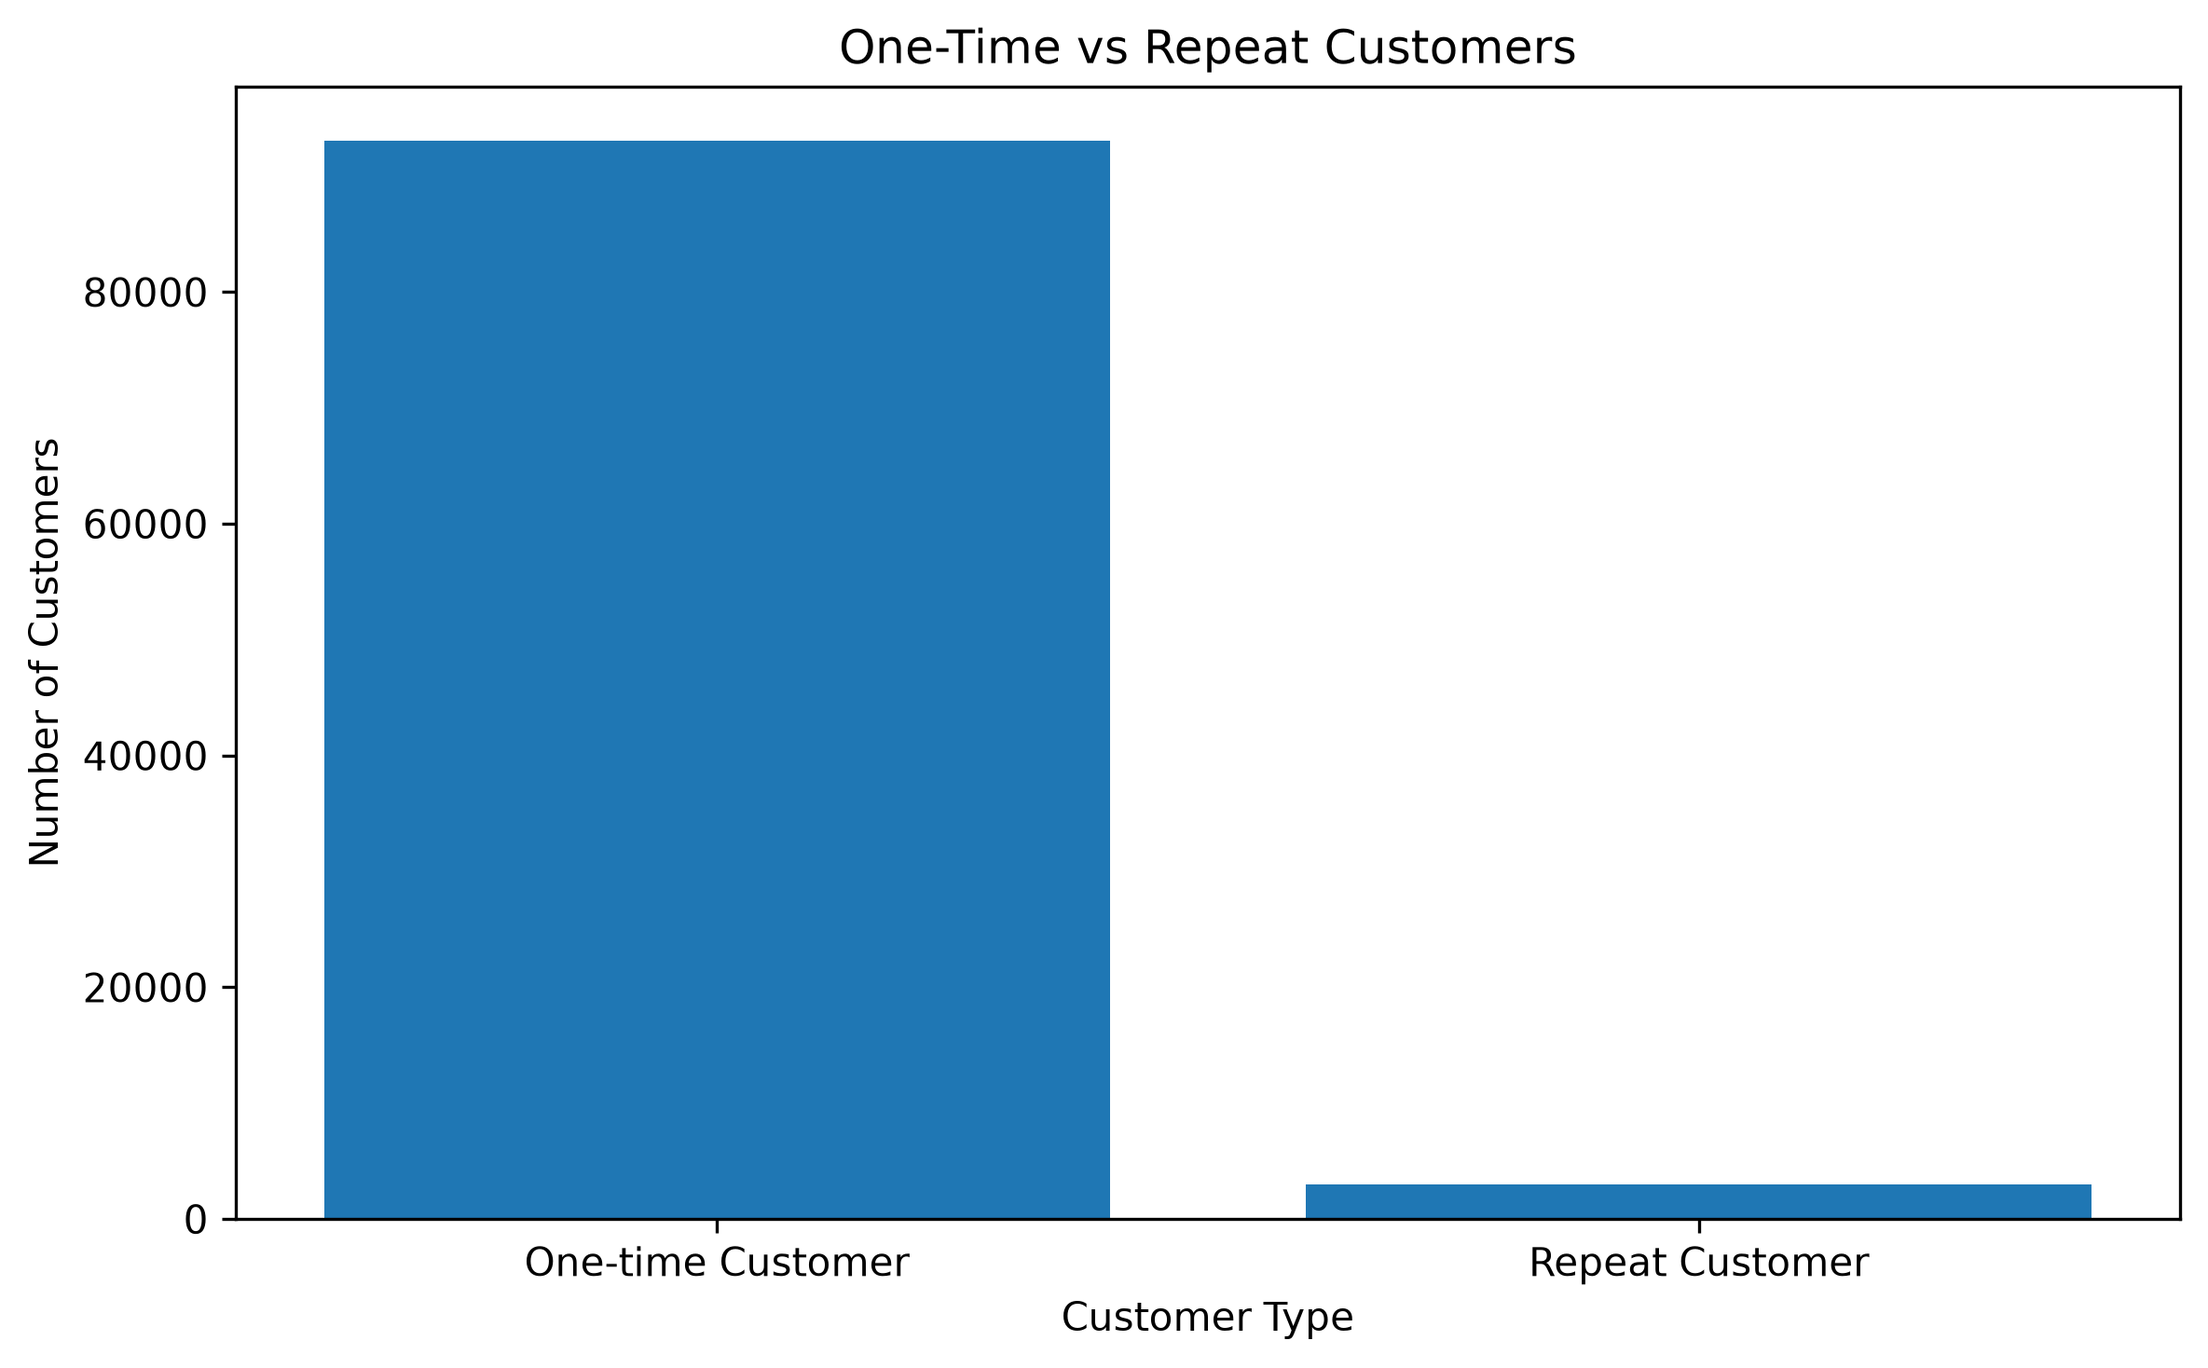
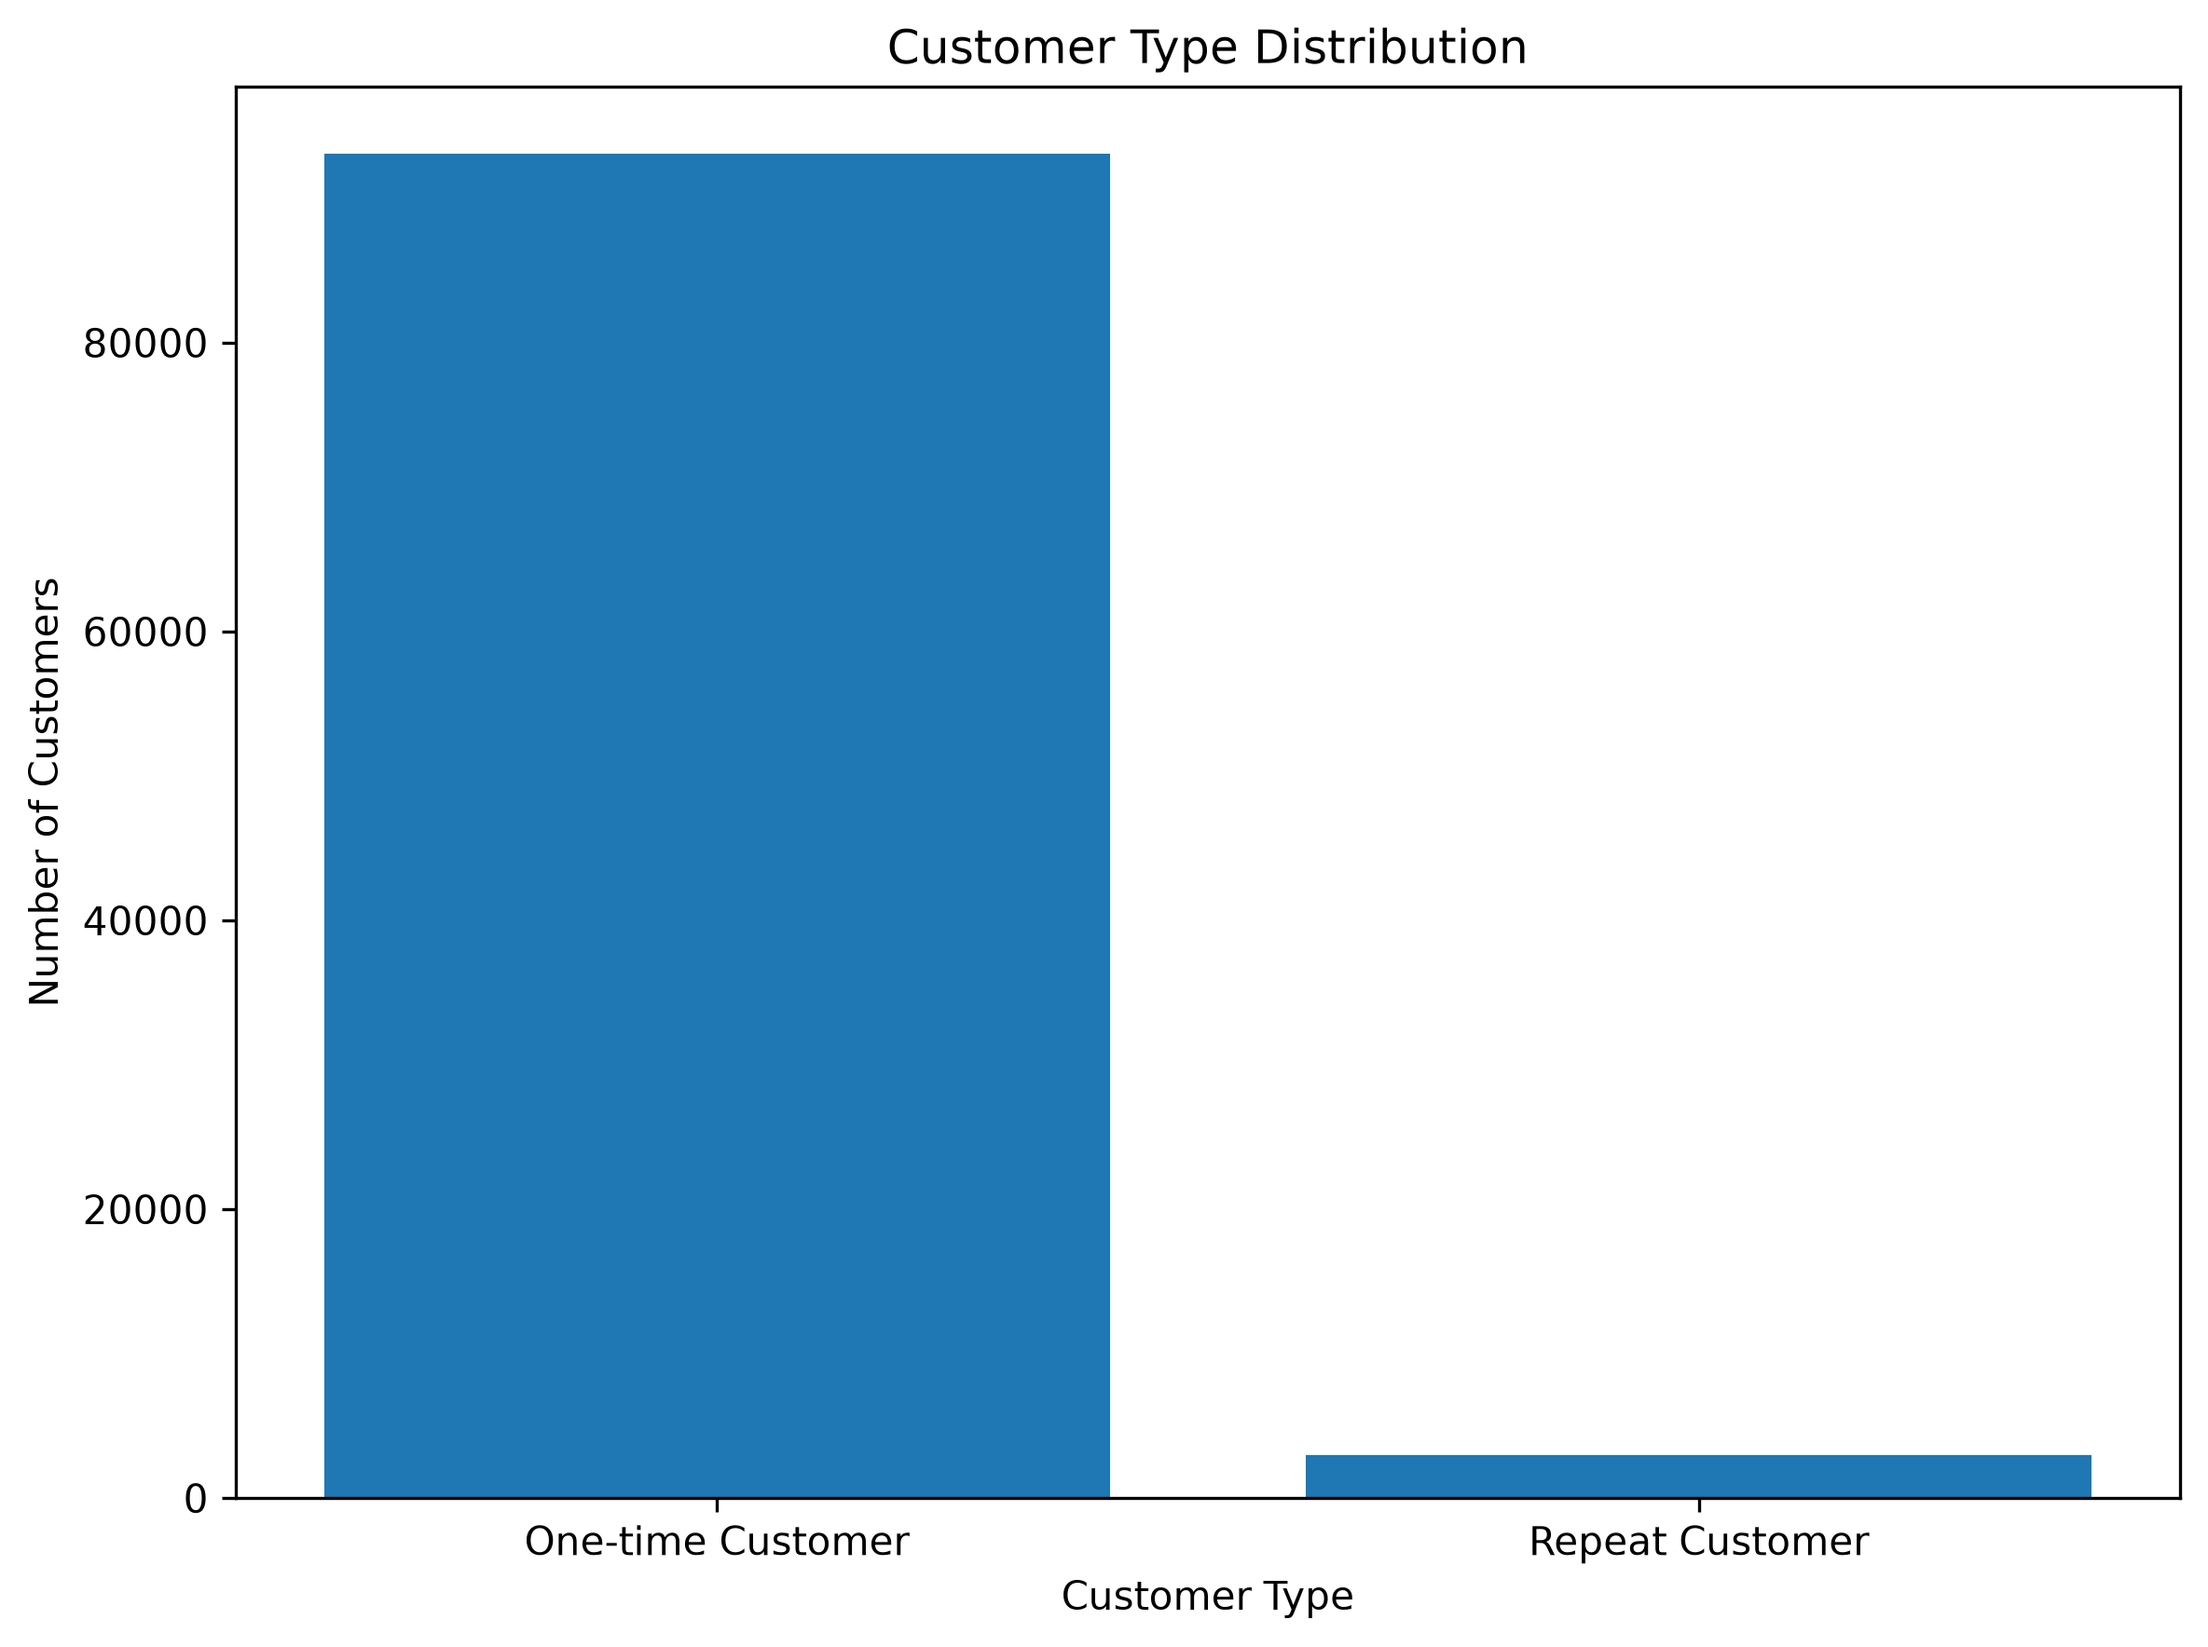
Complete customer and delivery analysis

diff --git a/notebooks/02_business_analysis.py b/notebooks/02_business_analysis.py
@@ -70,7 +70,7 @@ plt.savefig(
     bbox_inches="tight"
 )
 
-plt.show()
+#plt.show()
 
 
 # ============================================================
@@ -140,7 +140,7 @@ plt.savefig(
     bbox_inches="tight"
 )
 
-plt.show()
+#plt.show()
 
 
 # ============================================================
@@ -204,7 +204,7 @@ plt.savefig(
     bbox_inches="tight"
 )
 
-plt.show()
+#plt.show()
 
 
 # Top sellers by order count
@@ -234,7 +234,7 @@ plt.savefig(
     bbox_inches="tight"
 )
 
-plt.show()
+#plt.show()
 
 
 # Seller revenue vs order volume
@@ -259,7 +259,7 @@ plt.savefig(
     bbox_inches="tight"
 )
 
-plt.show()
+#plt.show()
 
 
 # ============================================================
@@ -368,7 +368,7 @@ plt.savefig(
     bbox_inches="tight"
 )
 
-plt.show()
+#plt.show()
 
 
 # ============================================================
@@ -622,3 +622,322 @@ print(len(written_reviews))
 print("\n========================================")
 print("BUSINESS ANALYSIS COMPLETED SUCCESSFULLY")
 print("========================================")
+
+
+
+# ============================================================
+# CUSTOMER RETENTION ANALYSIS
+# ============================================================
+
+# Count unique orders per customer
+customer_order_counts = (
+    orders_customers
+    .groupby("customer_unique_id")["order_id"]
+    .nunique()
+)
+# Customer type
+customer_type = pd.Series(
+    "One-time Customer",
+    index=customer_order_counts.index
+)
+
+customer_type[customer_order_counts > 1] = "Repeat Customer"
+
+customer_type_counts = customer_type.value_counts()
+
+print("\nCustomer Type:")
+print(customer_type_counts)
+
+print("\nCustomer Type Percentage:")
+print(
+    (customer_type_counts / customer_type_counts.sum() * 100)
+    .round(2)
+)
+
+# Repeat customer rate
+repeat_customer_rate = (
+    (customer_order_counts > 1).sum()
+    / customer_order_counts.count()
+    * 100
+)
+
+print("\nTotal unique customers:")
+print(customer_order_counts.count())
+
+print("\nRepeat customers:")
+print((customer_order_counts > 1).sum())
+
+print("\nRepeat customer rate:")
+print(round(repeat_customer_rate, 2), "%")
+
+# Top repeat customers
+top_repeat_customers = (
+    customer_order_counts[customer_order_counts > 1]
+    .sort_values(ascending=False)
+    .head(10)
+)
+
+print("\nTop Repeat Customers:")
+print(top_repeat_customers)
+
+# ============================================================
+# VISUALIZATION - CUSTOMER TYPE
+# ============================================================
+
+plt.figure(figsize=(8, 6))
+
+plt.bar(
+    customer_type_counts.index,
+    customer_type_counts.values
+)
+
+plt.title("Customer Type Distribution")
+plt.xlabel("Customer Type")
+plt.ylabel("Number of Customers")
+
+plt.tight_layout()
+
+plt.savefig(
+    "visualizations/customer_type_distribution.png",
+    dpi=300,
+    bbox_inches="tight"
+)
+
+#plt.show()
+
+# ============================================================
+# VISUALIZATION - TOP REPEAT CUSTOMERS
+# ============================================================
+
+top_repeat_customers_plot = top_repeat_customers.sort_values()
+
+plt.figure(figsize=(10, 6))
+
+plt.barh(
+    top_repeat_customers_plot.index,
+    top_repeat_customers_plot.values
+)
+
+plt.title("Top 10 Repeat Customers by Number of Orders")
+plt.xlabel("Number of Orders")
+plt.ylabel("Customer ID")
+
+plt.tight_layout()
+
+plt.savefig(
+    "visualizations/top_10_repeat_customers.png",
+    dpi=300,
+    bbox_inches="tight"
+)
+
+#plt.show()
+
+
+# ============================================================
+# CUSTOMER REVENUE ANALYSIS
+# ============================================================
+
+customer_revenue = (
+    orders_customers
+    .groupby("customer_unique_id")["payment_value"]
+    .sum()
+    .sort_values(ascending=False)
+)
+
+print("\nTop 10 Customers by Revenue:")
+print(customer_revenue.head(10))
+
+print("\nTotal Customer Revenue:")
+print(round(customer_revenue.sum(), 2))
+
+print("\nAverage Customer Revenue:")
+print(round(customer_revenue.mean(), 2))
+
+print("\nMedian Customer Revenue:")
+print(round(customer_revenue.median(), 2))
+
+
+# ============================================================
+# TOP 10 CUSTOMER REVENUE VISUALIZATION
+# ============================================================
+
+top_10_customers_revenue = (
+    customer_revenue
+    .head(10)
+    .sort_values()
+)
+
+plt.figure(figsize=(10, 6))
+
+plt.barh(
+    top_10_customers_revenue.index,
+    top_10_customers_revenue.values
+)
+
+plt.title("Top 10 Customers by Revenue")
+plt.xlabel("Revenue")
+plt.ylabel("Customer ID")
+
+plt.tight_layout()
+
+plt.savefig(
+    "visualizations/top_10_customers_by_revenue.png",
+    dpi=300,
+    bbox_inches="tight"
+)
+
+#plt.show()
+
+
+# ============================================================
+# CUSTOMER VALUE: ONE-TIME VS REPEAT CUSTOMERS
+# ============================================================
+
+customer_summary = pd.DataFrame({
+    "orders": customer_order_counts,
+    "revenue": customer_revenue
+})
+
+customer_summary["customer_type"] = "One-time Customer"
+
+customer_summary.loc[
+    customer_summary["orders"] > 1,
+    "customer_type"
+] = "Repeat Customer"
+
+customer_value_by_type = (
+    customer_summary
+    .groupby("customer_type")
+    .agg(
+        customers=("orders", "count"),
+        total_revenue=("revenue", "sum"),
+        average_revenue=("revenue", "mean")
+    )
+)
+
+print("\nCustomer Value by Customer Type:")
+print(customer_value_by_type)
+
+print("\nAverage Revenue per Customer by Type:")
+print(
+    customer_value_by_type["average_revenue"].round(2)
+)
+
+# ============================================================
+# VISUALIZATION
+# ============================================================
+
+plt.figure(figsize=(8, 6))
+
+plt.bar(
+    customer_value_by_type.index,
+    customer_value_by_type["average_revenue"]
+)
+
+plt.title("Average Revenue per Customer: One-time vs Repeat")
+plt.xlabel("Customer Type")
+plt.ylabel("Average Revenue")
+
+plt.tight_layout()
+
+plt.savefig(
+    "visualizations/customer_value_by_type.png",
+    dpi=300,
+    bbox_inches="tight"
+)
+
+#plt.show()
+
+
+# ============================================================
+# DELIVERY PERFORMANCE VS CUSTOMER SATISFACTION
+# ============================================================
+
+reviews = pd.read_csv(
+    "data/olist_order_reviews_dataset.csv"
+)
+
+# Select required review columns
+reviews_analysis = reviews[
+    [
+        "order_id",
+        "review_score"
+    ]
+].copy()
+
+# Merge reviews with delivery information
+delivery_reviews = orders[
+    [
+        "order_id",
+        "is_late",
+        "delivery_days"
+    ]
+].merge(
+    reviews_analysis,
+    on="order_id",
+    how="inner"
+)
+
+print("\nDelivery + Reviews:")
+print(delivery_reviews.head())
+
+print("\nShape:")
+print(delivery_reviews.shape)
+
+# Average review score by delivery status
+review_by_delivery = (
+    delivery_reviews
+    .groupby("is_late")["review_score"]
+    .agg(["count", "mean"])
+)
+
+print("\nReview Score by Delivery Status:")
+print(review_by_delivery)
+
+# Review score distribution by delivery status
+review_distribution = pd.crosstab(
+    delivery_reviews["review_score"],
+    delivery_reviews["is_late"],
+    normalize="columns"
+) * 100
+
+print("\nReview Score Distribution by Delivery Status (%):")
+print(review_distribution.round(2))
+
+# ============================================================
+# VISUALIZATION
+# ============================================================
+
+average_review = (
+    delivery_reviews
+    .groupby("is_late")["review_score"]
+    .mean()
+)
+
+average_review.index = [
+    "On-time",
+    "Late"
+]
+
+plt.figure(figsize=(8, 6))
+
+plt.bar(
+    average_review.index,
+    average_review.values
+)
+
+plt.title("Average Review Score: On-time vs Late Delivery")
+plt.xlabel("Delivery Status")
+plt.ylabel("Average Review Score")
+
+plt.ylim(0, 5)
+
+plt.tight_layout()
+
+plt.savefig(
+    "visualizations/review_score_by_delivery_status.png",
+    dpi=300,
+    bbox_inches="tight"
+)
+
+#plt.show()
